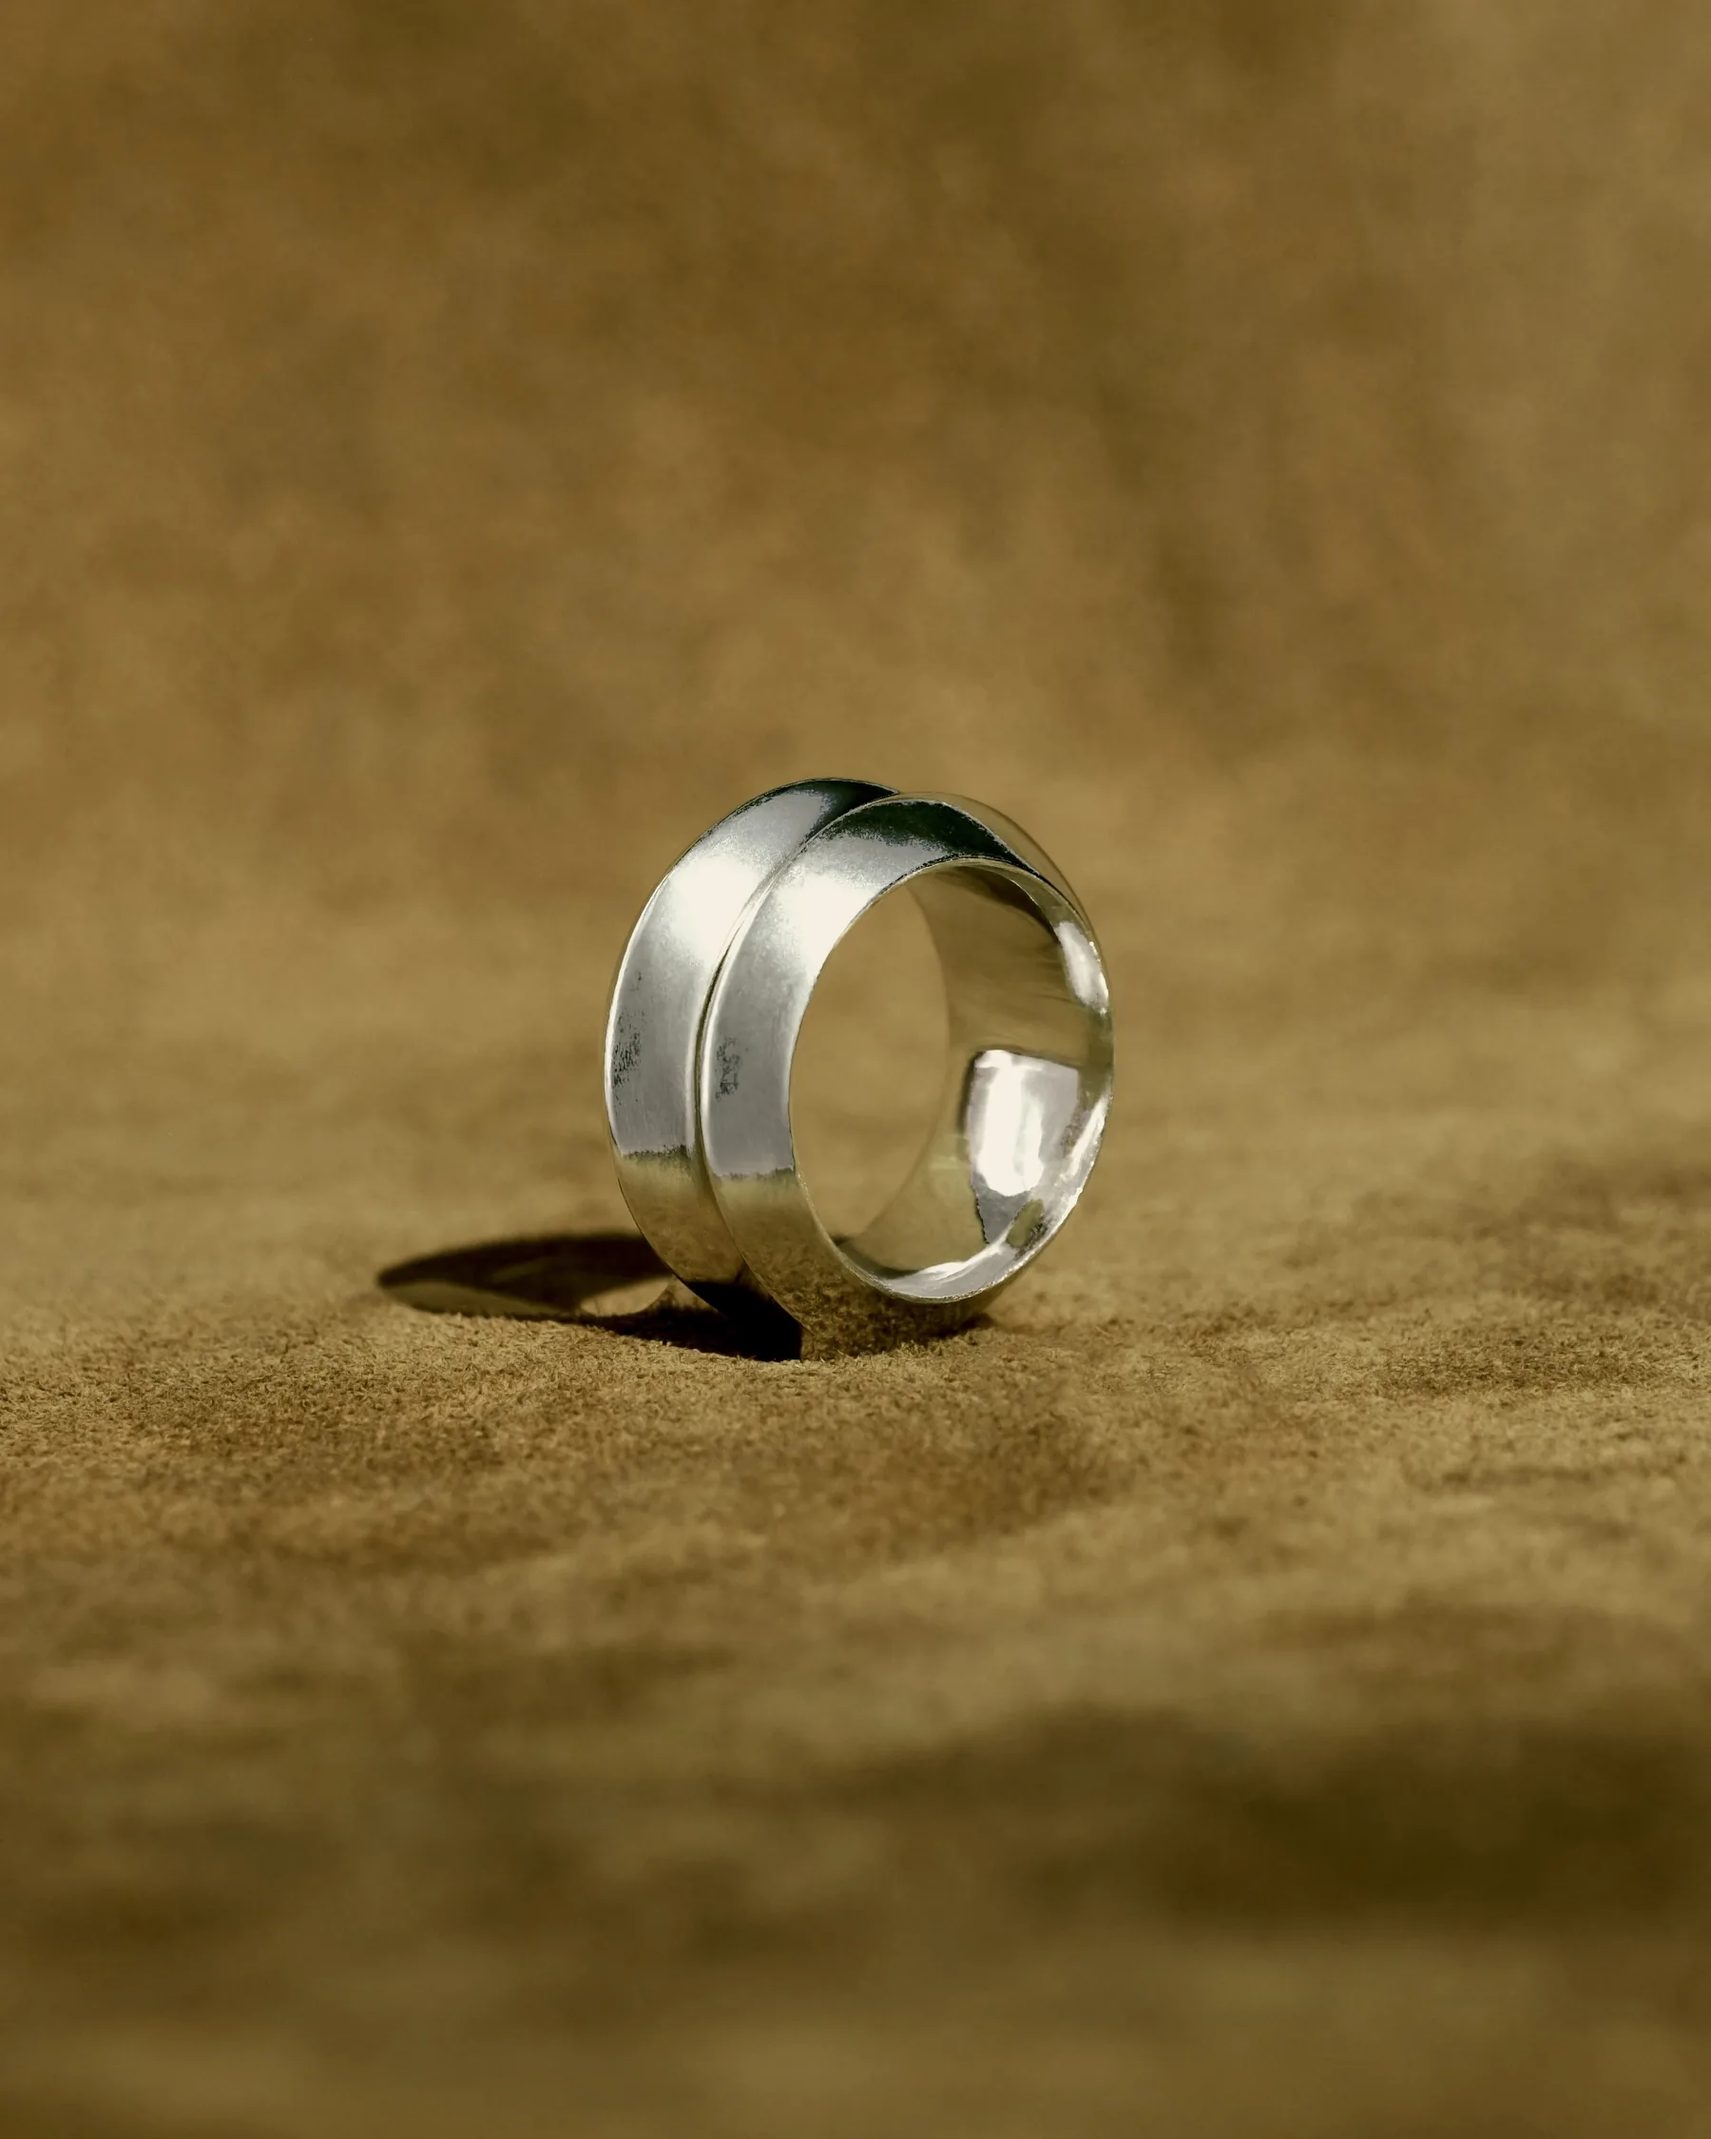
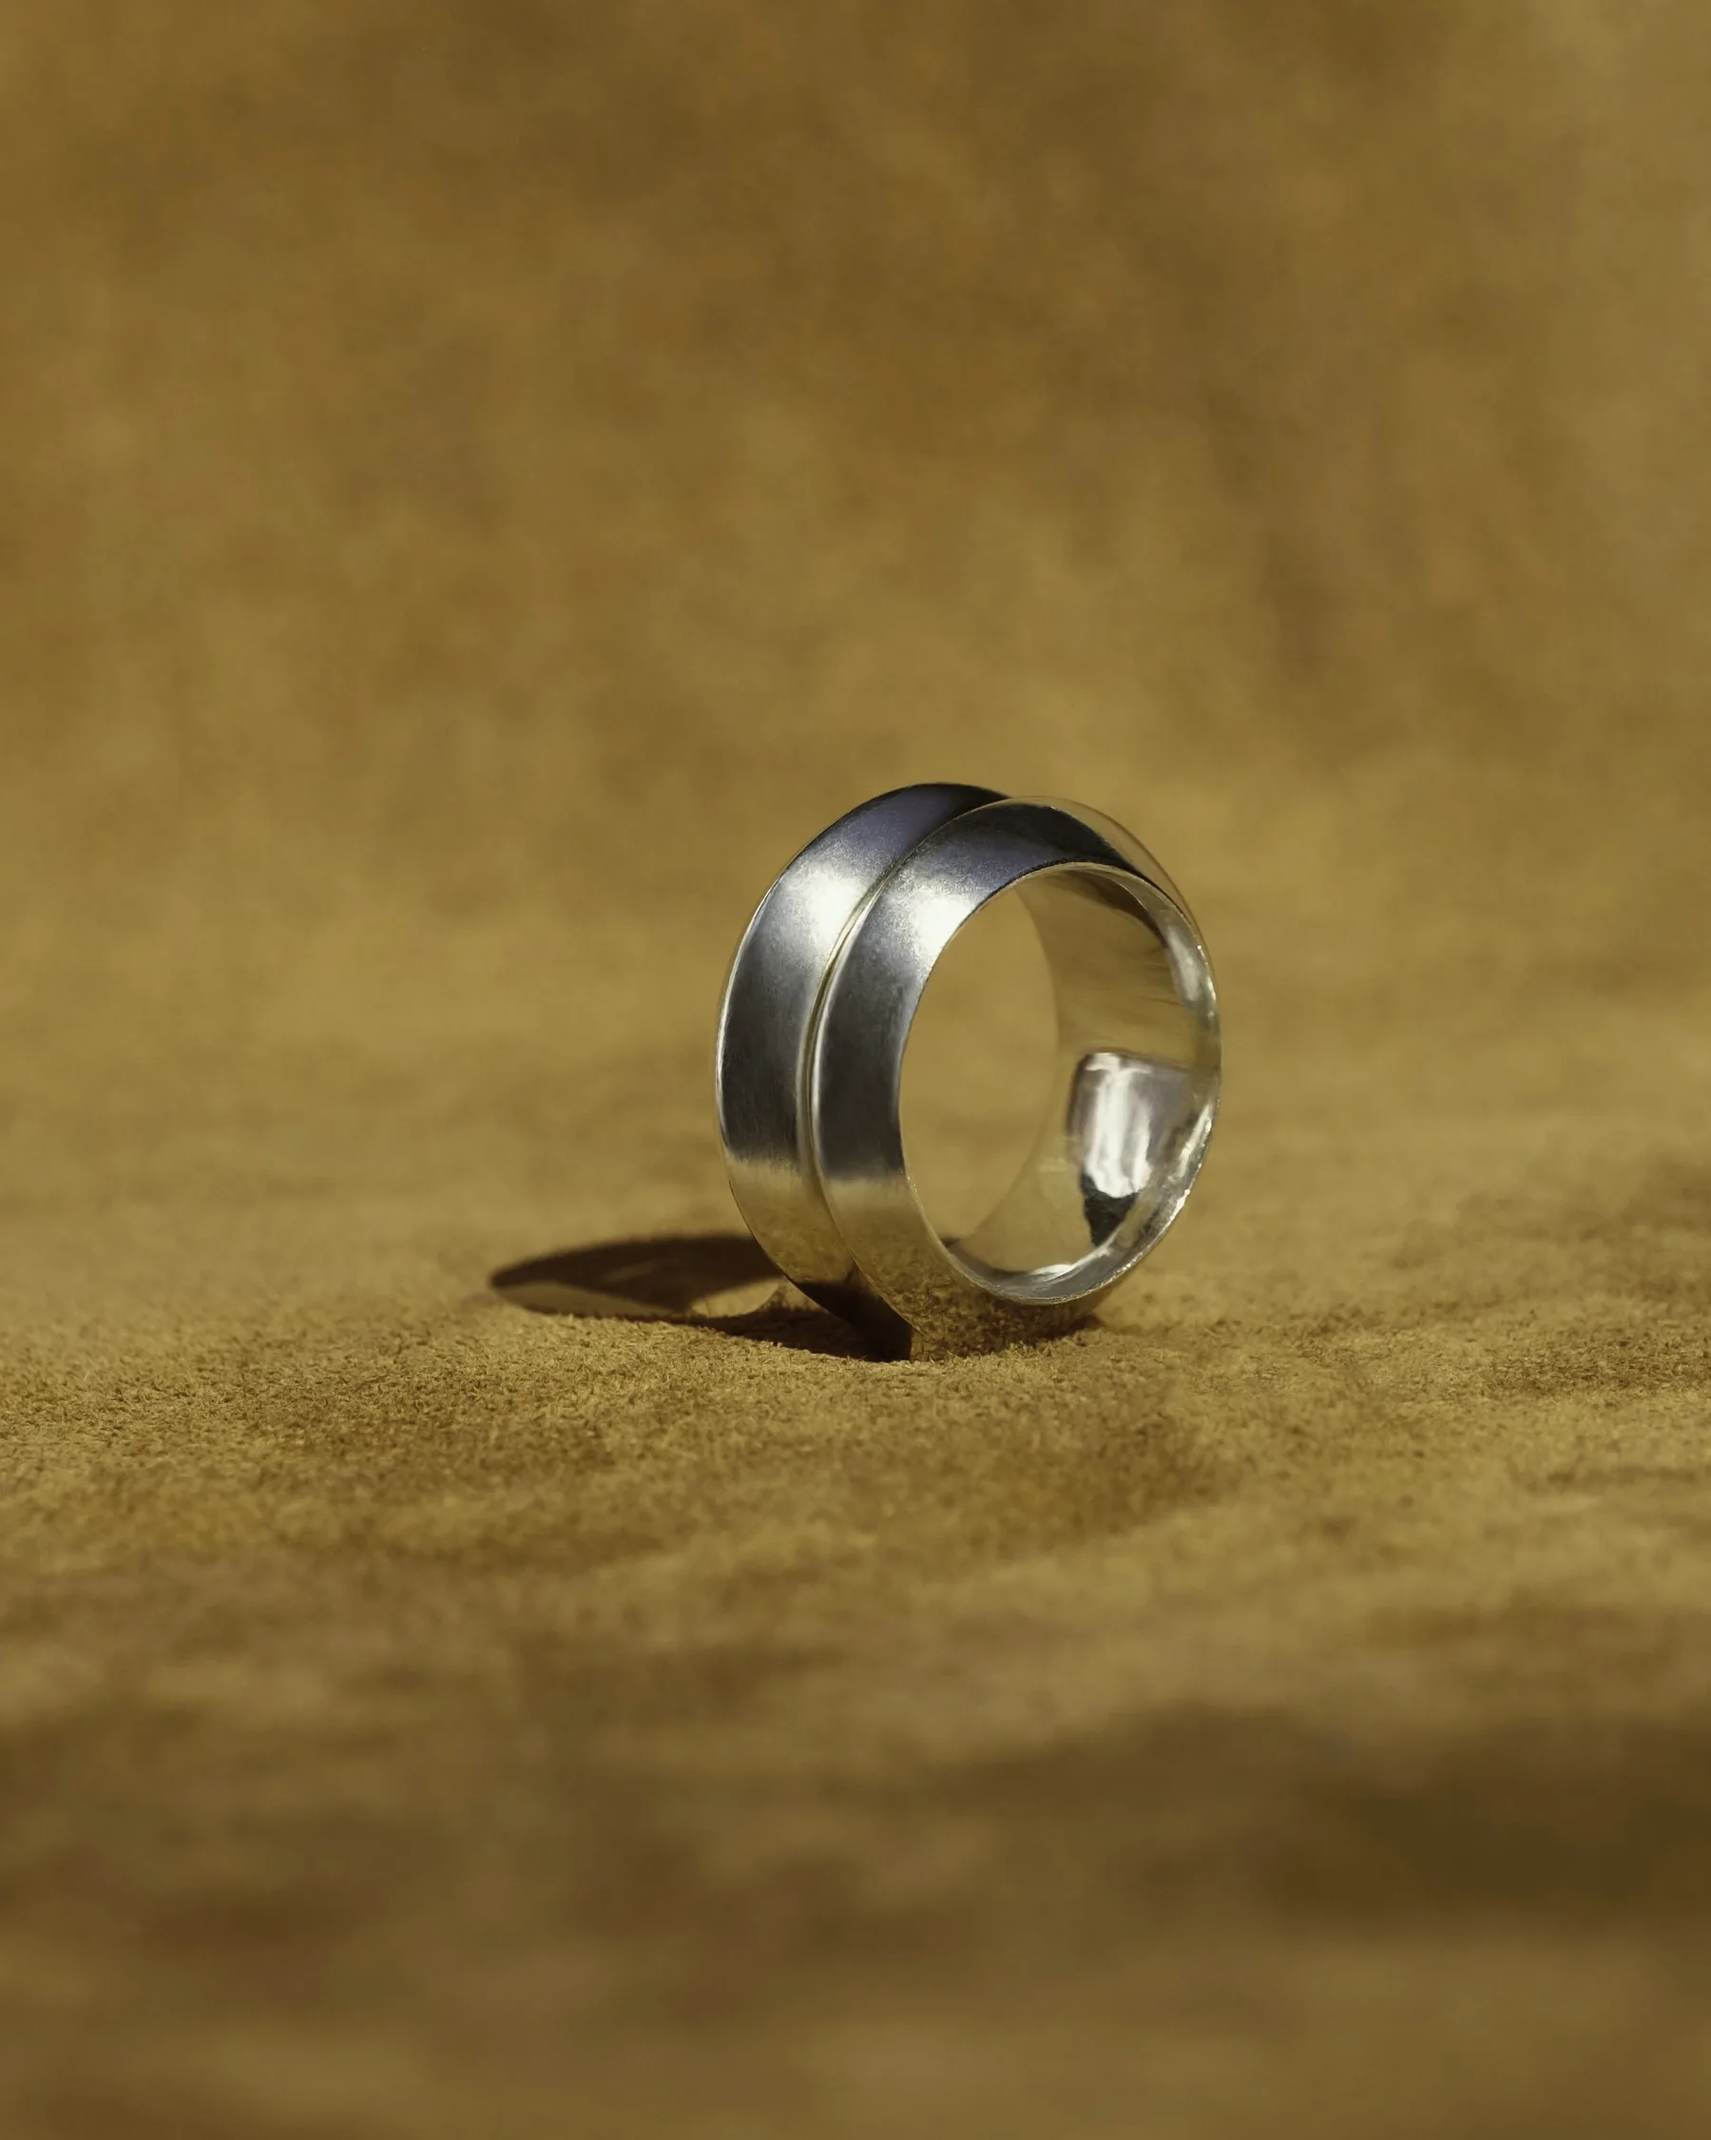
Lunar Canyon: its own moss photograph (Terracotta Suede(1)), as shot, same size and centring

diff --git a/pdp/lunar-canyon-ring.html b/pdp/lunar-canyon-ring.html
@@ -581,7 +581,7 @@
 <main>
   <section class="product">
     <div class="gallery" data-under-nav>
-      <figure class="hero"><img width="2402" height="3003" src="img/lunar-canyon-ring/terracotta.jpg.webp" srcset="img/lunar-canyon-ring/terracotta--d.jpg.webp 1800w, img/lunar-canyon-ring/terracotta.jpg.webp 2402w" sizes="(max-width: 767px) 2402px, 60vw" alt="Lunar Canyon" fetchpriority="high"></figure>
+      <figure class="hero"><img width="2419" height="3025" src="img/lunar-canyon-ring/terracotta.jpg.webp" srcset="img/lunar-canyon-ring/terracotta--d.jpg.webp 1800w, img/lunar-canyon-ring/terracotta.jpg.webp 2419w" sizes="(max-width: 767px) 2419px, 60vw" alt="Lunar Canyon" fetchpriority="high"></figure>
       <figure><img width="1760" height="2640" src="img/lunar-canyon-ring/hand-1-wide.jpg.webp" srcset="img/lunar-canyon-ring/hand-1-wide--m.jpg.webp 1200w, img/lunar-canyon-ring/hand-1-wide.jpg.webp 1760w" sizes="(max-width: 767px) 100vw, 60vw" alt="Lunar Canyon, held in the hand" loading="lazy"></figure>
       <figure class="film-still"><video autoplay muted loop playsinline preload="metadata" poster="video/pieces/lunar-canyon-ring-end.jpg" aria-label="Lunar Canyon turned in the hand"><source src="video/pieces/lunar-canyon-ring-end.mp4" type="video/mp4"></video></figure>
     </div>

diff --git a/pdp/tools/moss_grounds.py b/pdp/tools/moss_grounds.py
@@ -18,7 +18,7 @@ SILVER_SD = np.array([15.7, 1.2, 2.8])
 REAL = {"ear-cuff": ("Caldera Moss Suede.jpg", .27, 0, 0), "eclipse-ring": ("Eclipse Ring Moss Suede.jpg", .27, 0, 90),
         "wonderhorn-talisman": ("Ida Horn Moss Suede.jpg", .17, 450, 0)}          # file, size in frame, chain cut-off, nudge
 LIFT = {"ear-cuff": 85, "eclipse-ring": 70}          # moss shots taken a touch lower than the terracotta ones: their pieces raised onto the centre, px
-RECOLOUR = ["zuma-ring", "sietch-aperture", "lunar-canyon-ring", "meridian-egg-ring"]
+RECOLOUR = ["zuma-ring", "sietch-aperture", "meridian-egg-ring"]          # lunar-canyon-ring: its own photograph, as shot (see AS_SHOT in place_terracotta.py)
 
 
 def save(slug, im):
